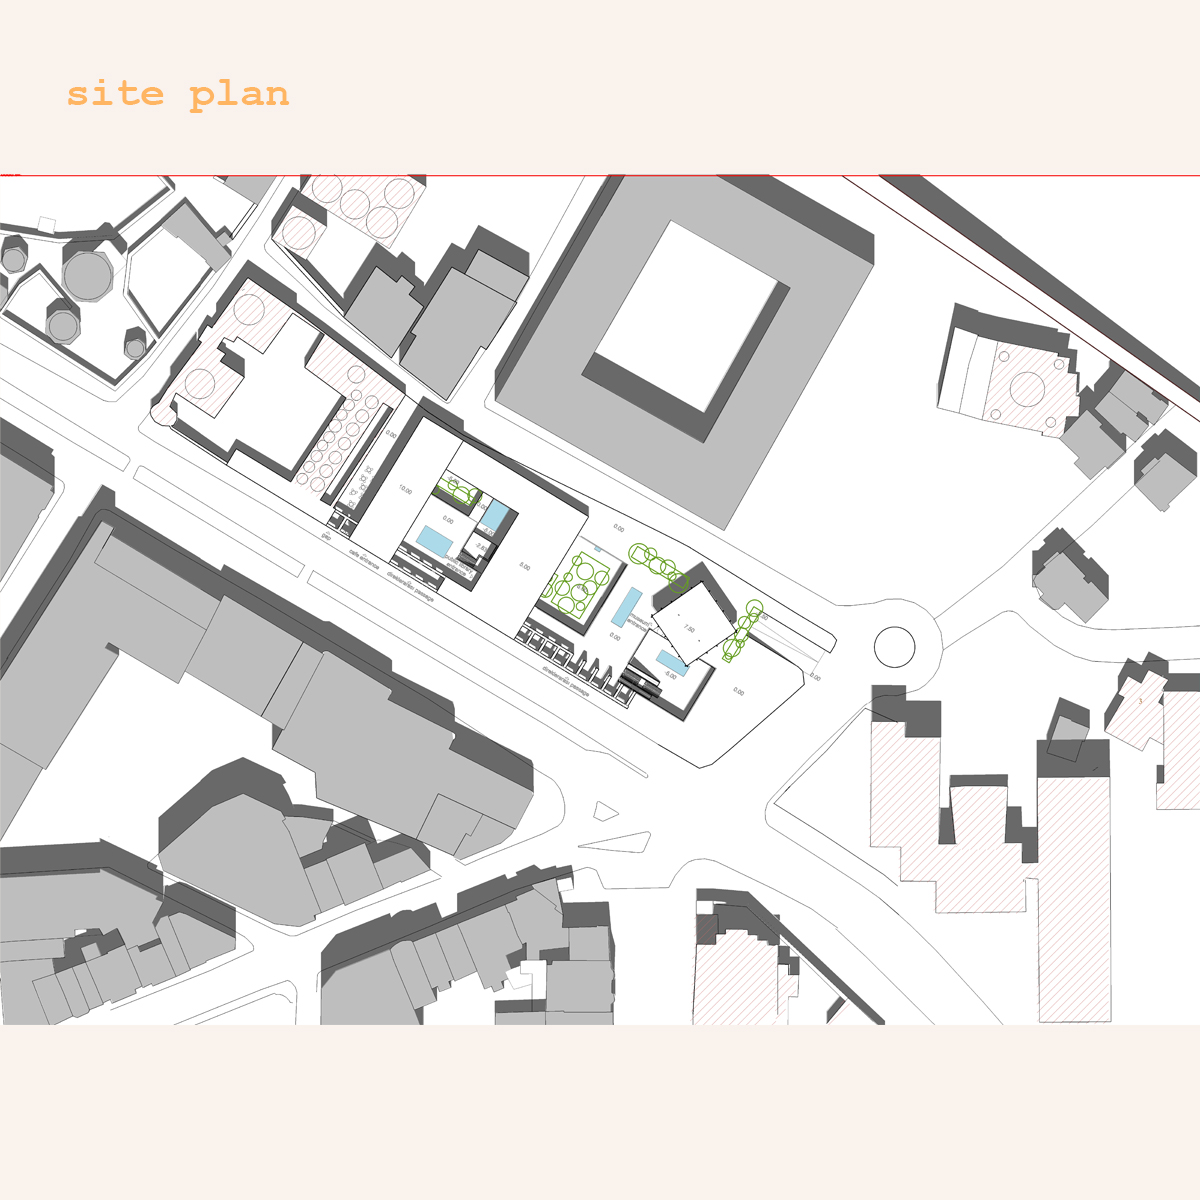
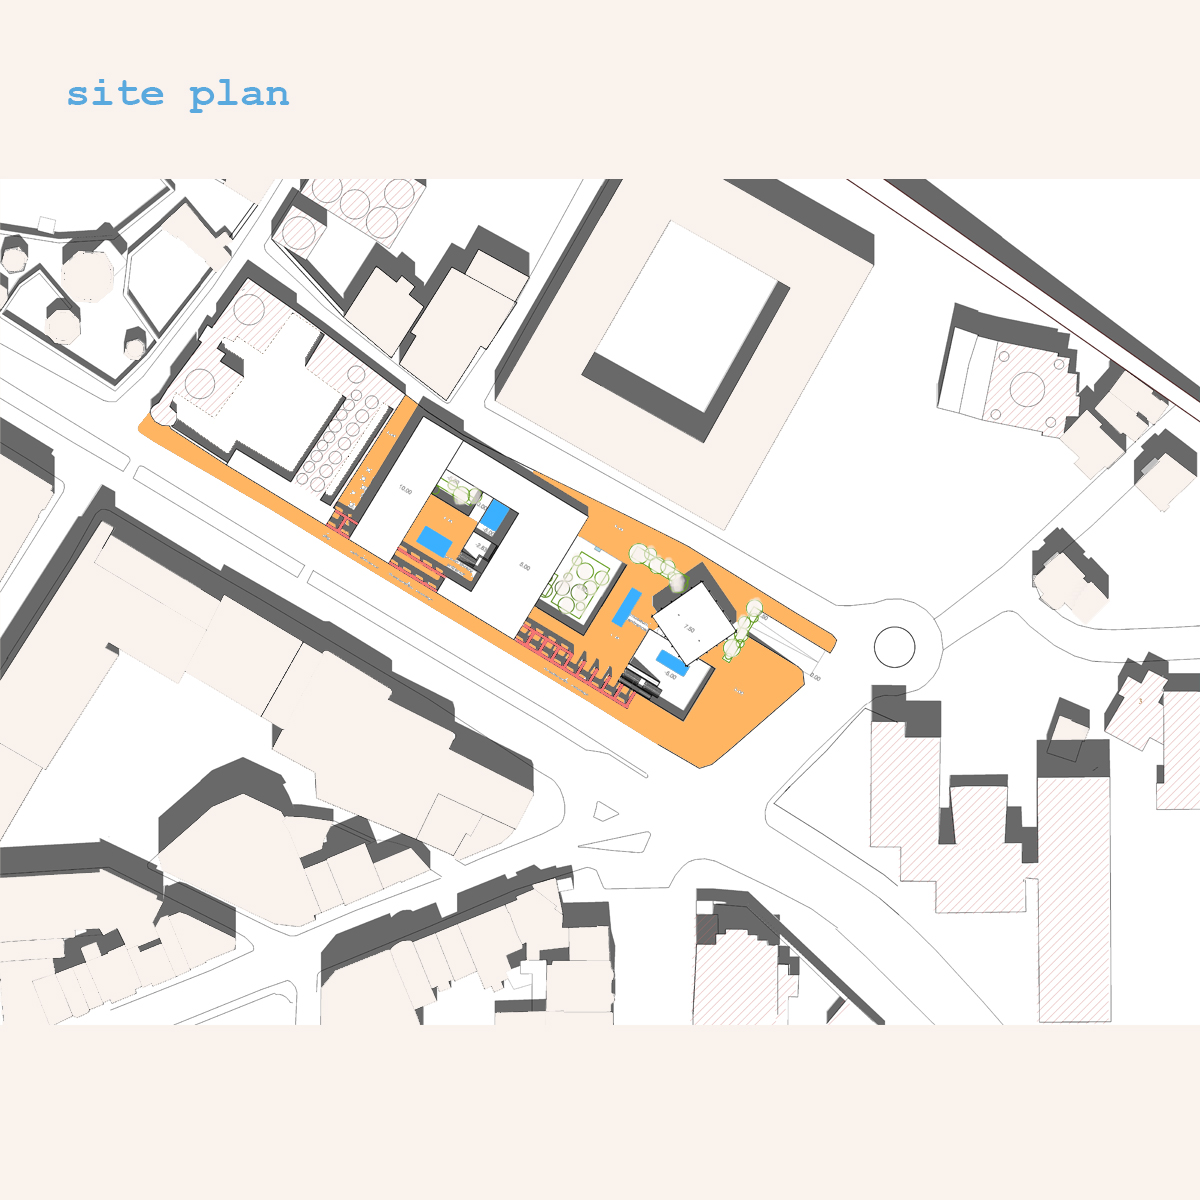
updated metro site plan image

diff --git a/metro.html b/metro.html
@@ -107,7 +107,7 @@
       <div class="row">
         <div class="col">
           <img
-            src="images/metro-site-plan.jpg"
+            src="images/metro-site-plan2.jpg"
             alt=""
             class="rounded img-fluid m-2"
           />
